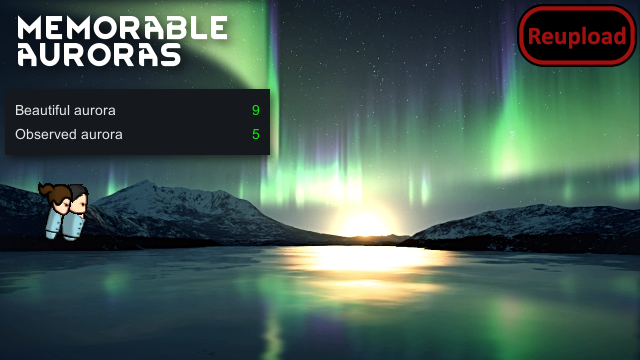
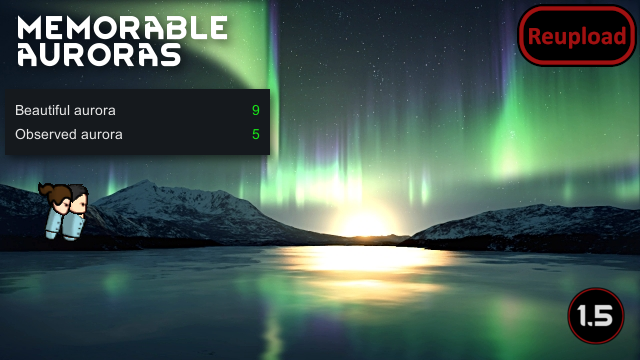
Mod updated for 1.5 and passed autotests

Changed region(s): [[0.875, 0.7944, 1.0, 0.9778]]

diff --git a/Source/LastingAurora/HarmonyPatches/Patch_GameCondition_Aurora.cs b/Source/LastingAurora/HarmonyPatches/Patch_GameCondition_Aurora.cs
@@ -11,7 +11,7 @@ public static class Patch_GameCondition_Aurora
     {
         public static void Postfix(GameCondition_Aurora __instance)
         {
-            // Try add 'Observed aurora' to all pawns every tick rare interval
+            // Try to add 'Observed aurora' to all pawns every tick rare interval
             if (GenTicks.TicksGame % GenTicks.TickRareInterval != 0)
             {
                 return;

diff --git a/Source/LastingAurora/HarmonyPatches/HarmonyPatches.cs b/Source/LastingAurora/HarmonyPatches/HarmonyPatches.cs
@@ -1,4 +1,5 @@
-using Verse;
+using HarmonyLib;
+using Verse;
 
 namespace MemorableAuroras;
 
@@ -7,6 +8,6 @@ public static class HarmonyPatches
 {
     static HarmonyPatches()
     {
-        MemorableAuroras.HarmonyInstance.PatchAll();
+        new Harmony("XeoNovaDan.MemorableAuroras").PatchAll();
     }
 }

diff --git a/README.md b/README.md
@@ -44,11 +44,13 @@ Should be safely addable to existing savegames. Can be removed from existing sav
 
 -  See if the the error persists if you just have this mod and its requirements active.
 -  If not, try adding your other mods until it happens again.
--  Post your error-log using https://steamcommunity.com/workshop/filedetails/?id=818773962]HugsLib and command Ctrl+F12
+-  Post your error-log using https://steamcommunity.com/workshop/filedetails/?id=818773962]HugsLib or the standalone https://steamcommunity.com/sharedfiles/filedetails/?id=2873415404]Uploader and command Ctrl+F12
 -  For best support, please use the Discord-channel for error-reporting.
 -  Do not report errors by making a discussion-thread, I get no notification of that.
 -  If you have the solution for a problem, please post it to the GitHub repository.
+-  Use https://github.com/RimSort/RimSort/releases/latest]RimSort to sort your mods
 
 
 
+https://steamcommunity.com/sharedfiles/filedetails/changelog/2270039395]![Image](https://img.shields.io/github/v/release/emipa606/XNDMemorableAuroras?label=latest%20version&style=plastic&color=9f1111&labelColor=black)
 
